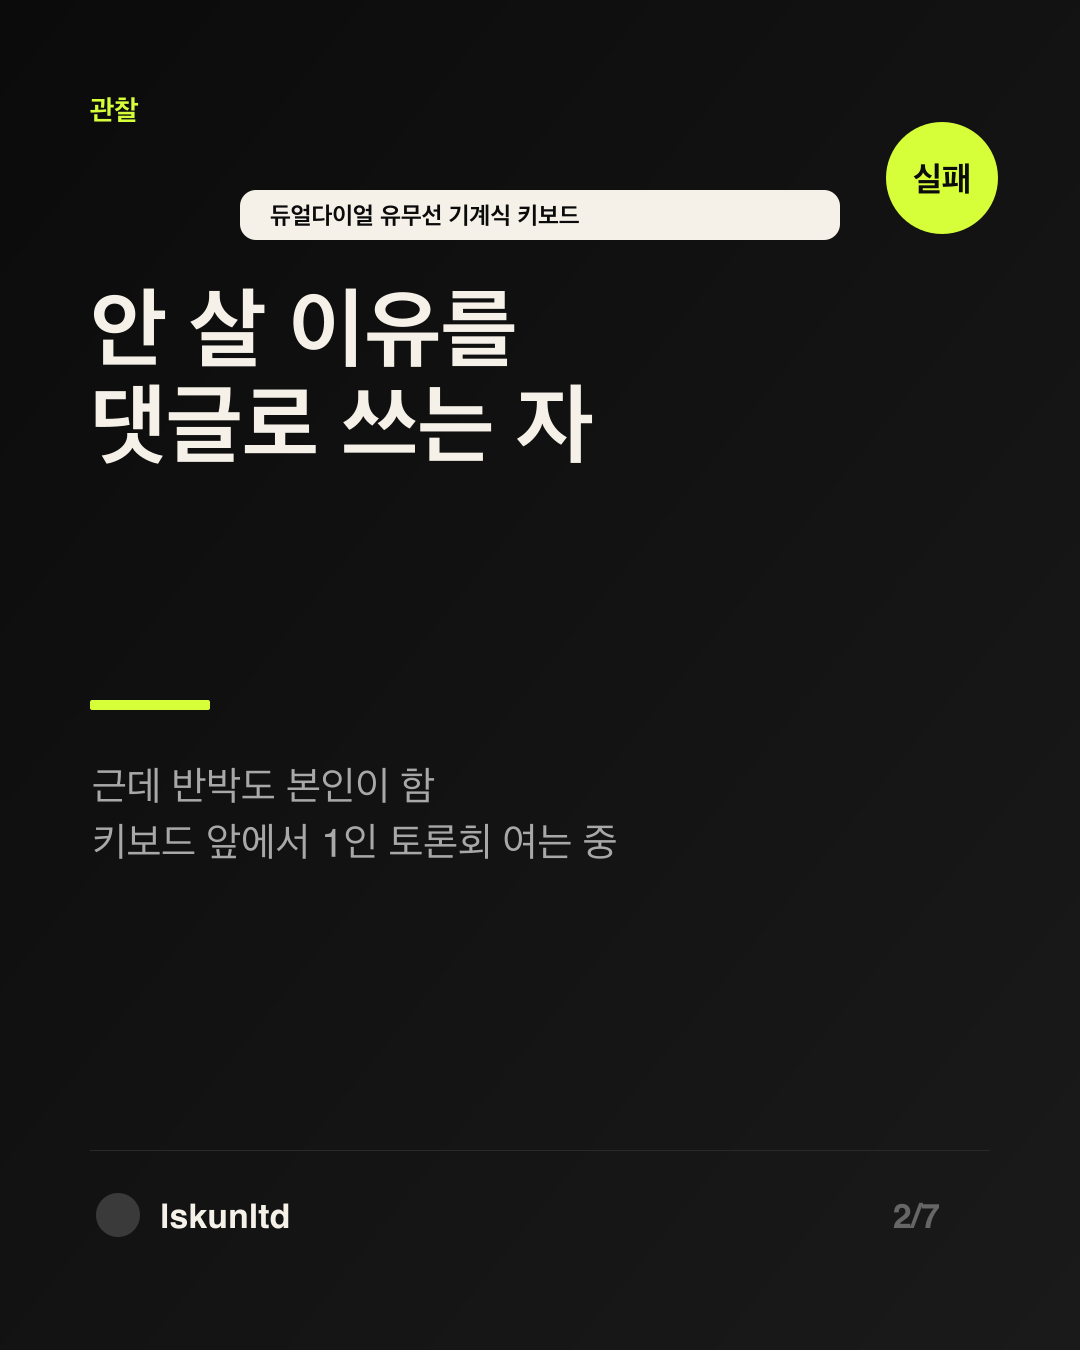
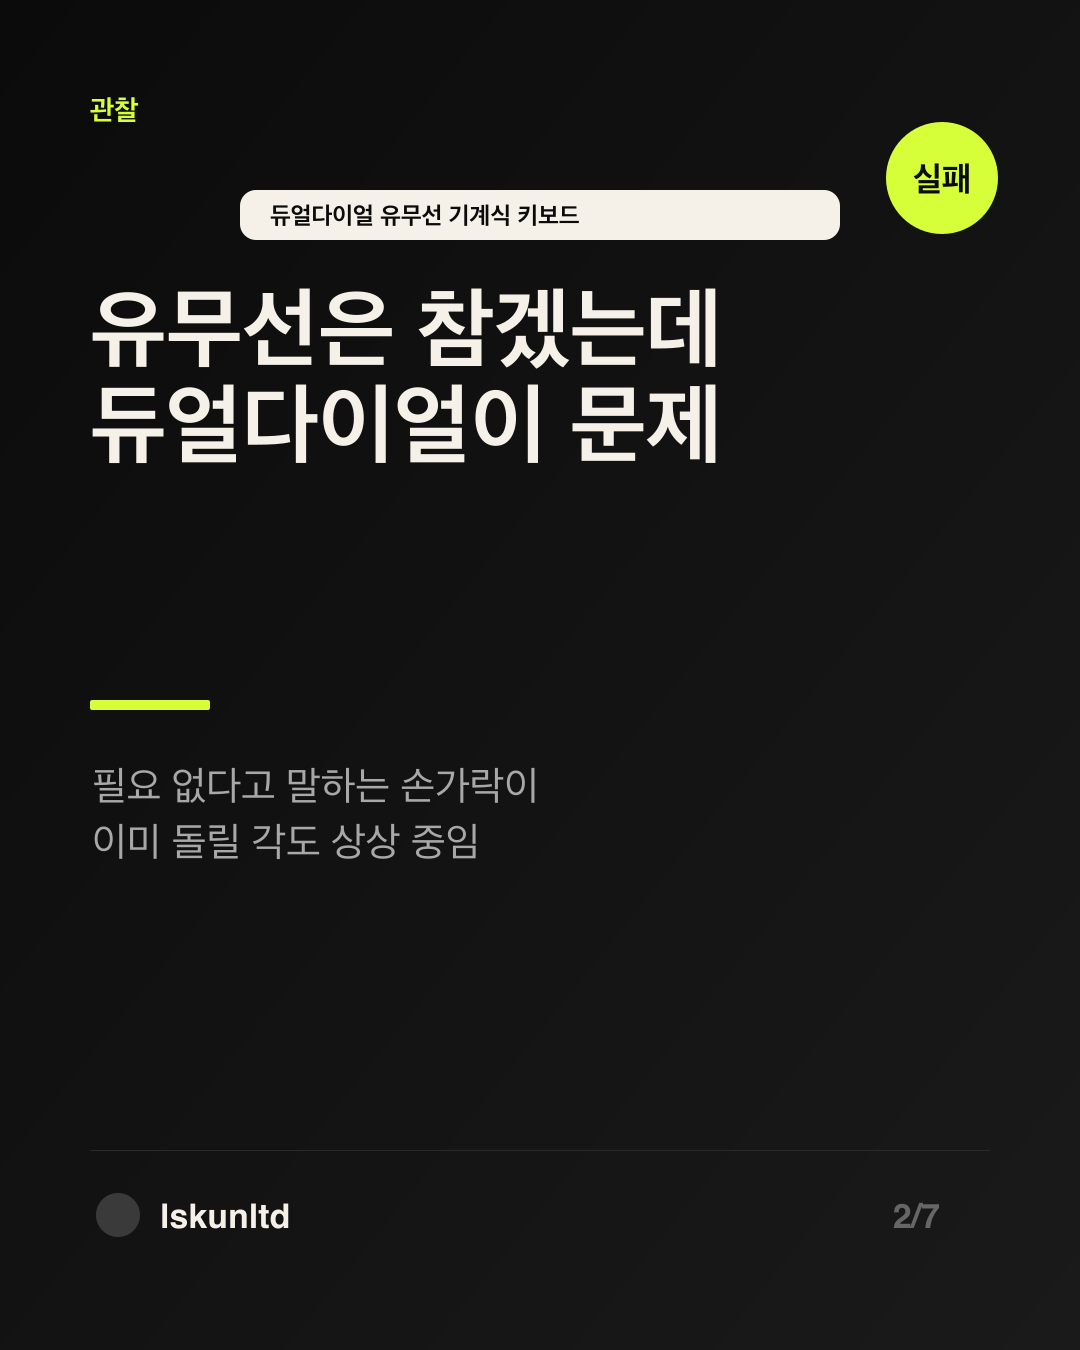
Update dual-dial curation summary caption

Changed region(s): [[0.0917, 0.2178, 0.6722, 0.3422], [0.0917, 0.56, 0.5194, 0.6533], [0.55, 0.6222, 0.5806, 0.6533]]

diff --git a/coupang-curation/dual-dial-keyboard/caption.md b/coupang-curation/dual-dial-keyboard/caption.md
@@ -1,3 +1,1 @@
-프리플로우 듀얼다이얼 게이밍 유무선 기계식 키보드 안 사려고 했는데 이미 링크 열어본 사람 있음
-
-키보드 하나 피하려다 듀얼다이얼 위치까지 외운 사람 됨. 안 산 척은 제일 오래 함.
+[이래도 안 사?] 키보드는 멀쩡한데 듀얼다이얼 달린 유무선 기계식 키보드만 보면 갑자기 책상 위 장비 점검하는 사람 됨. 안 사려고 검색했는데 검색 시간이 더 비싸지는 중.
